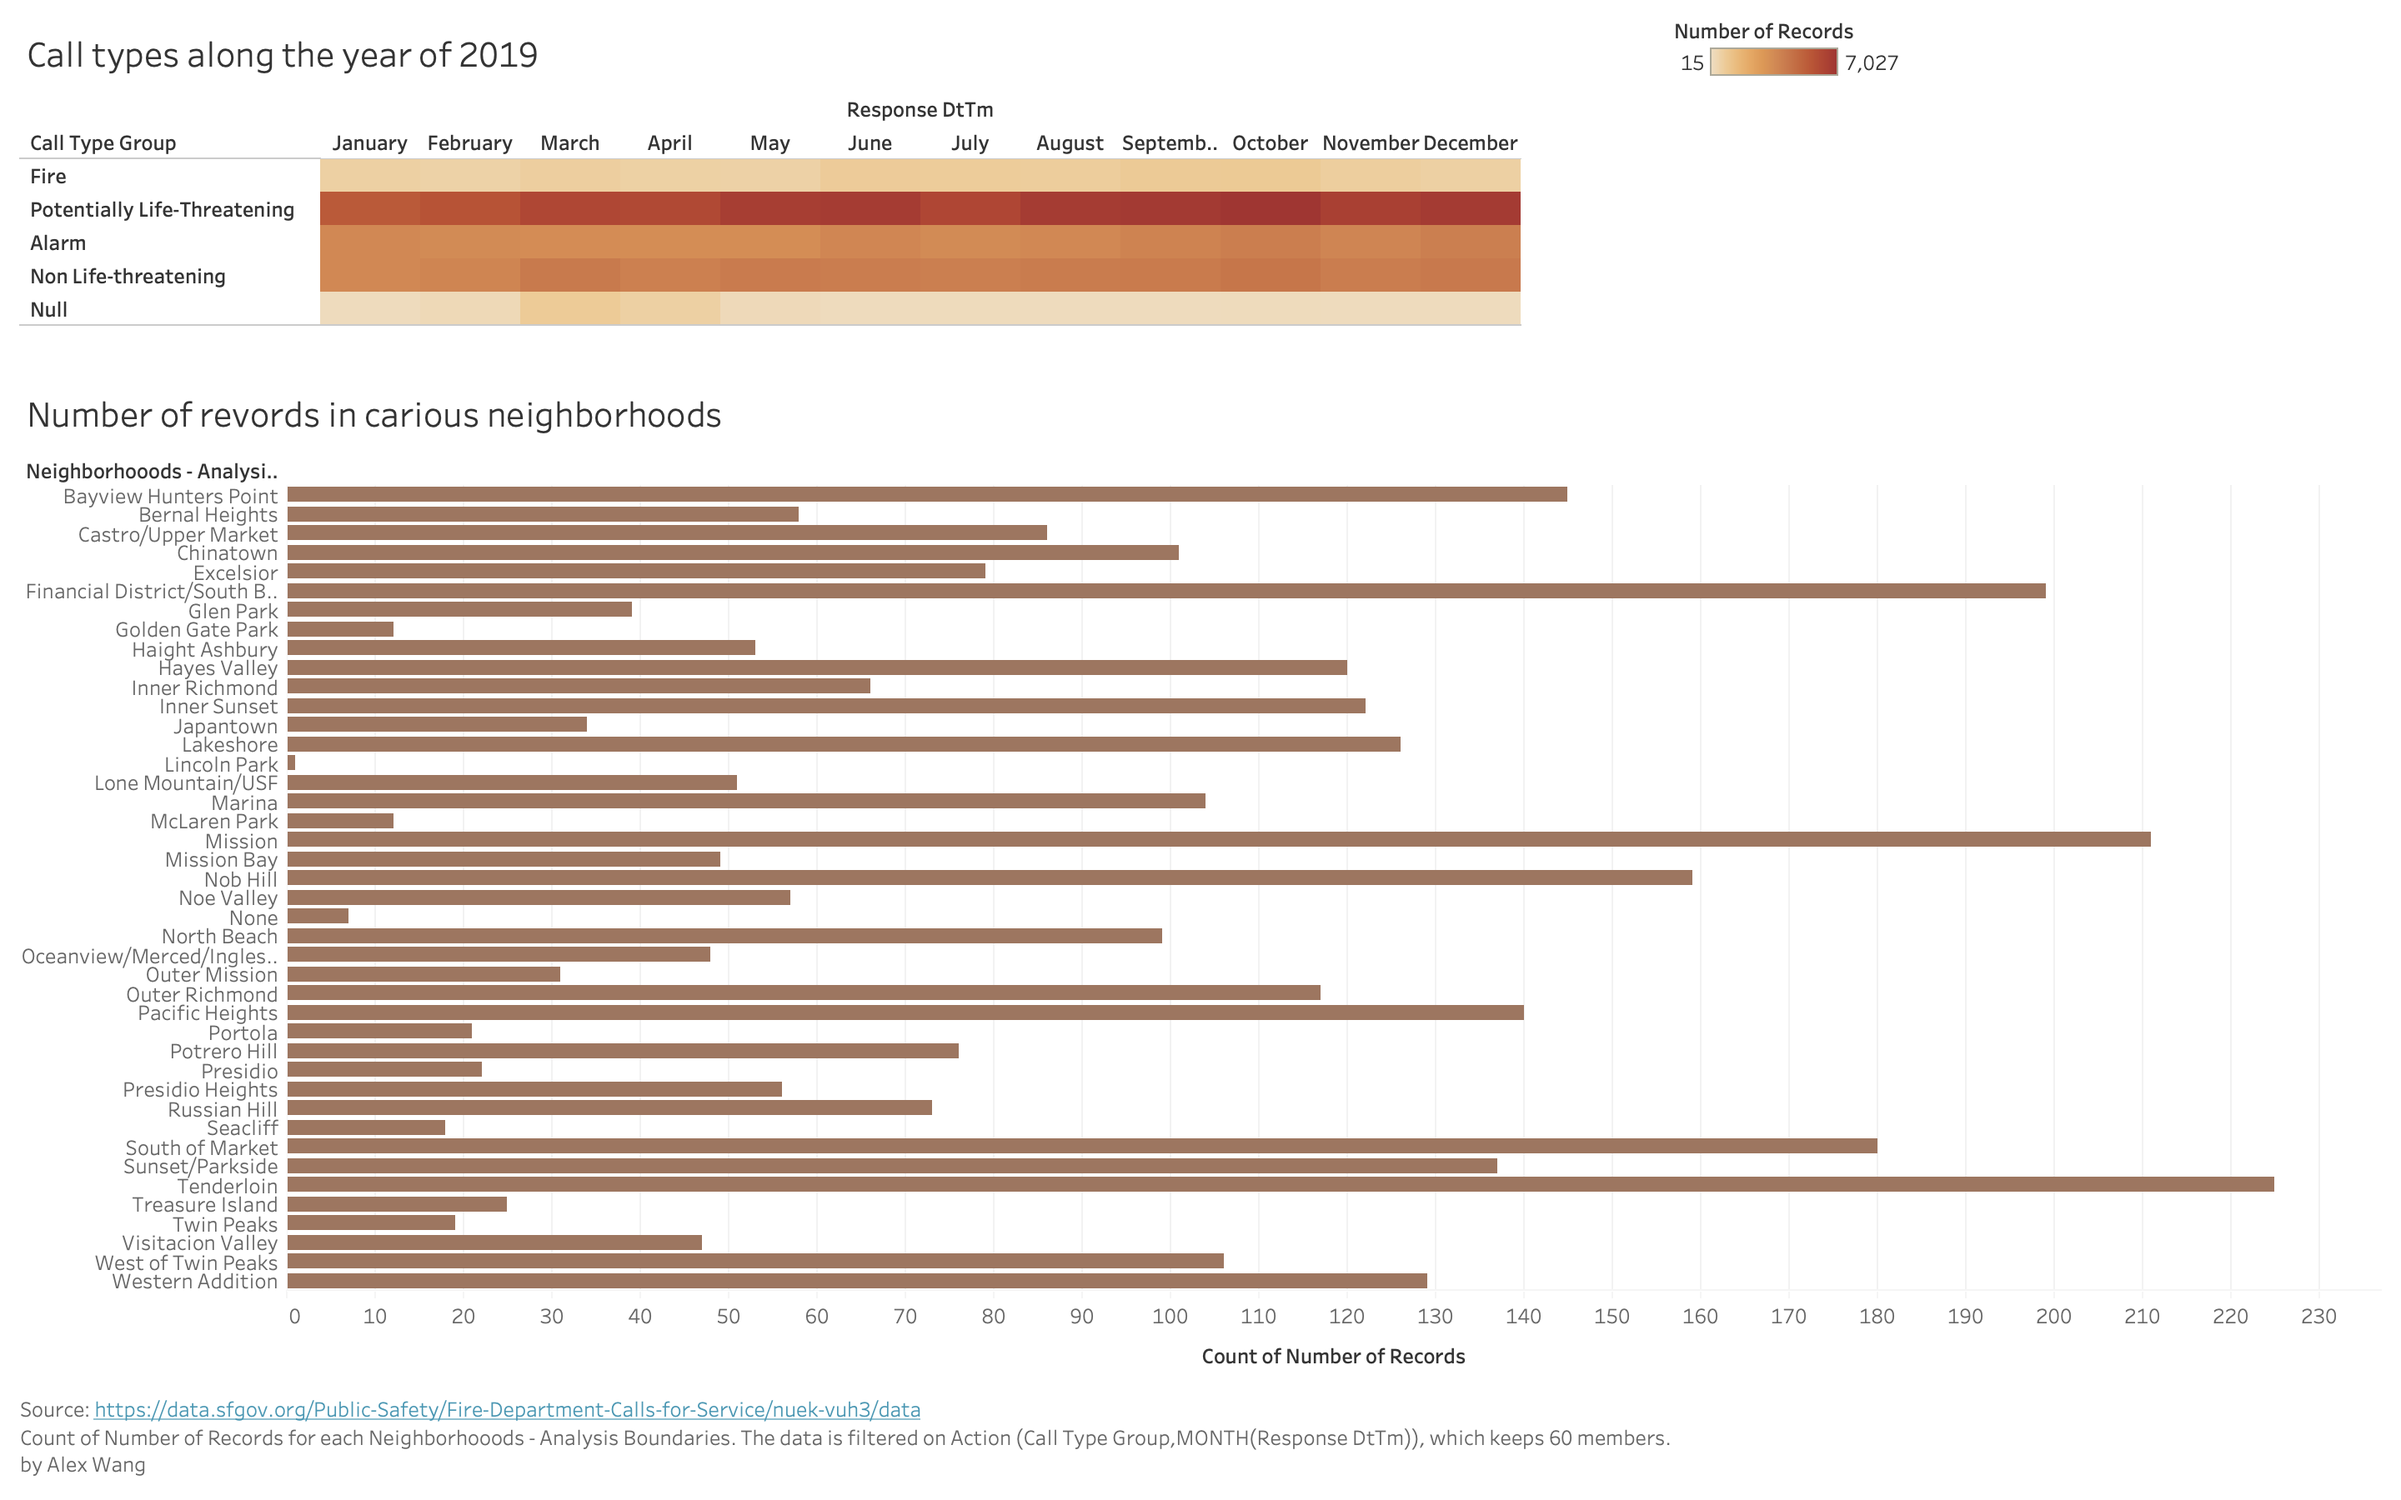
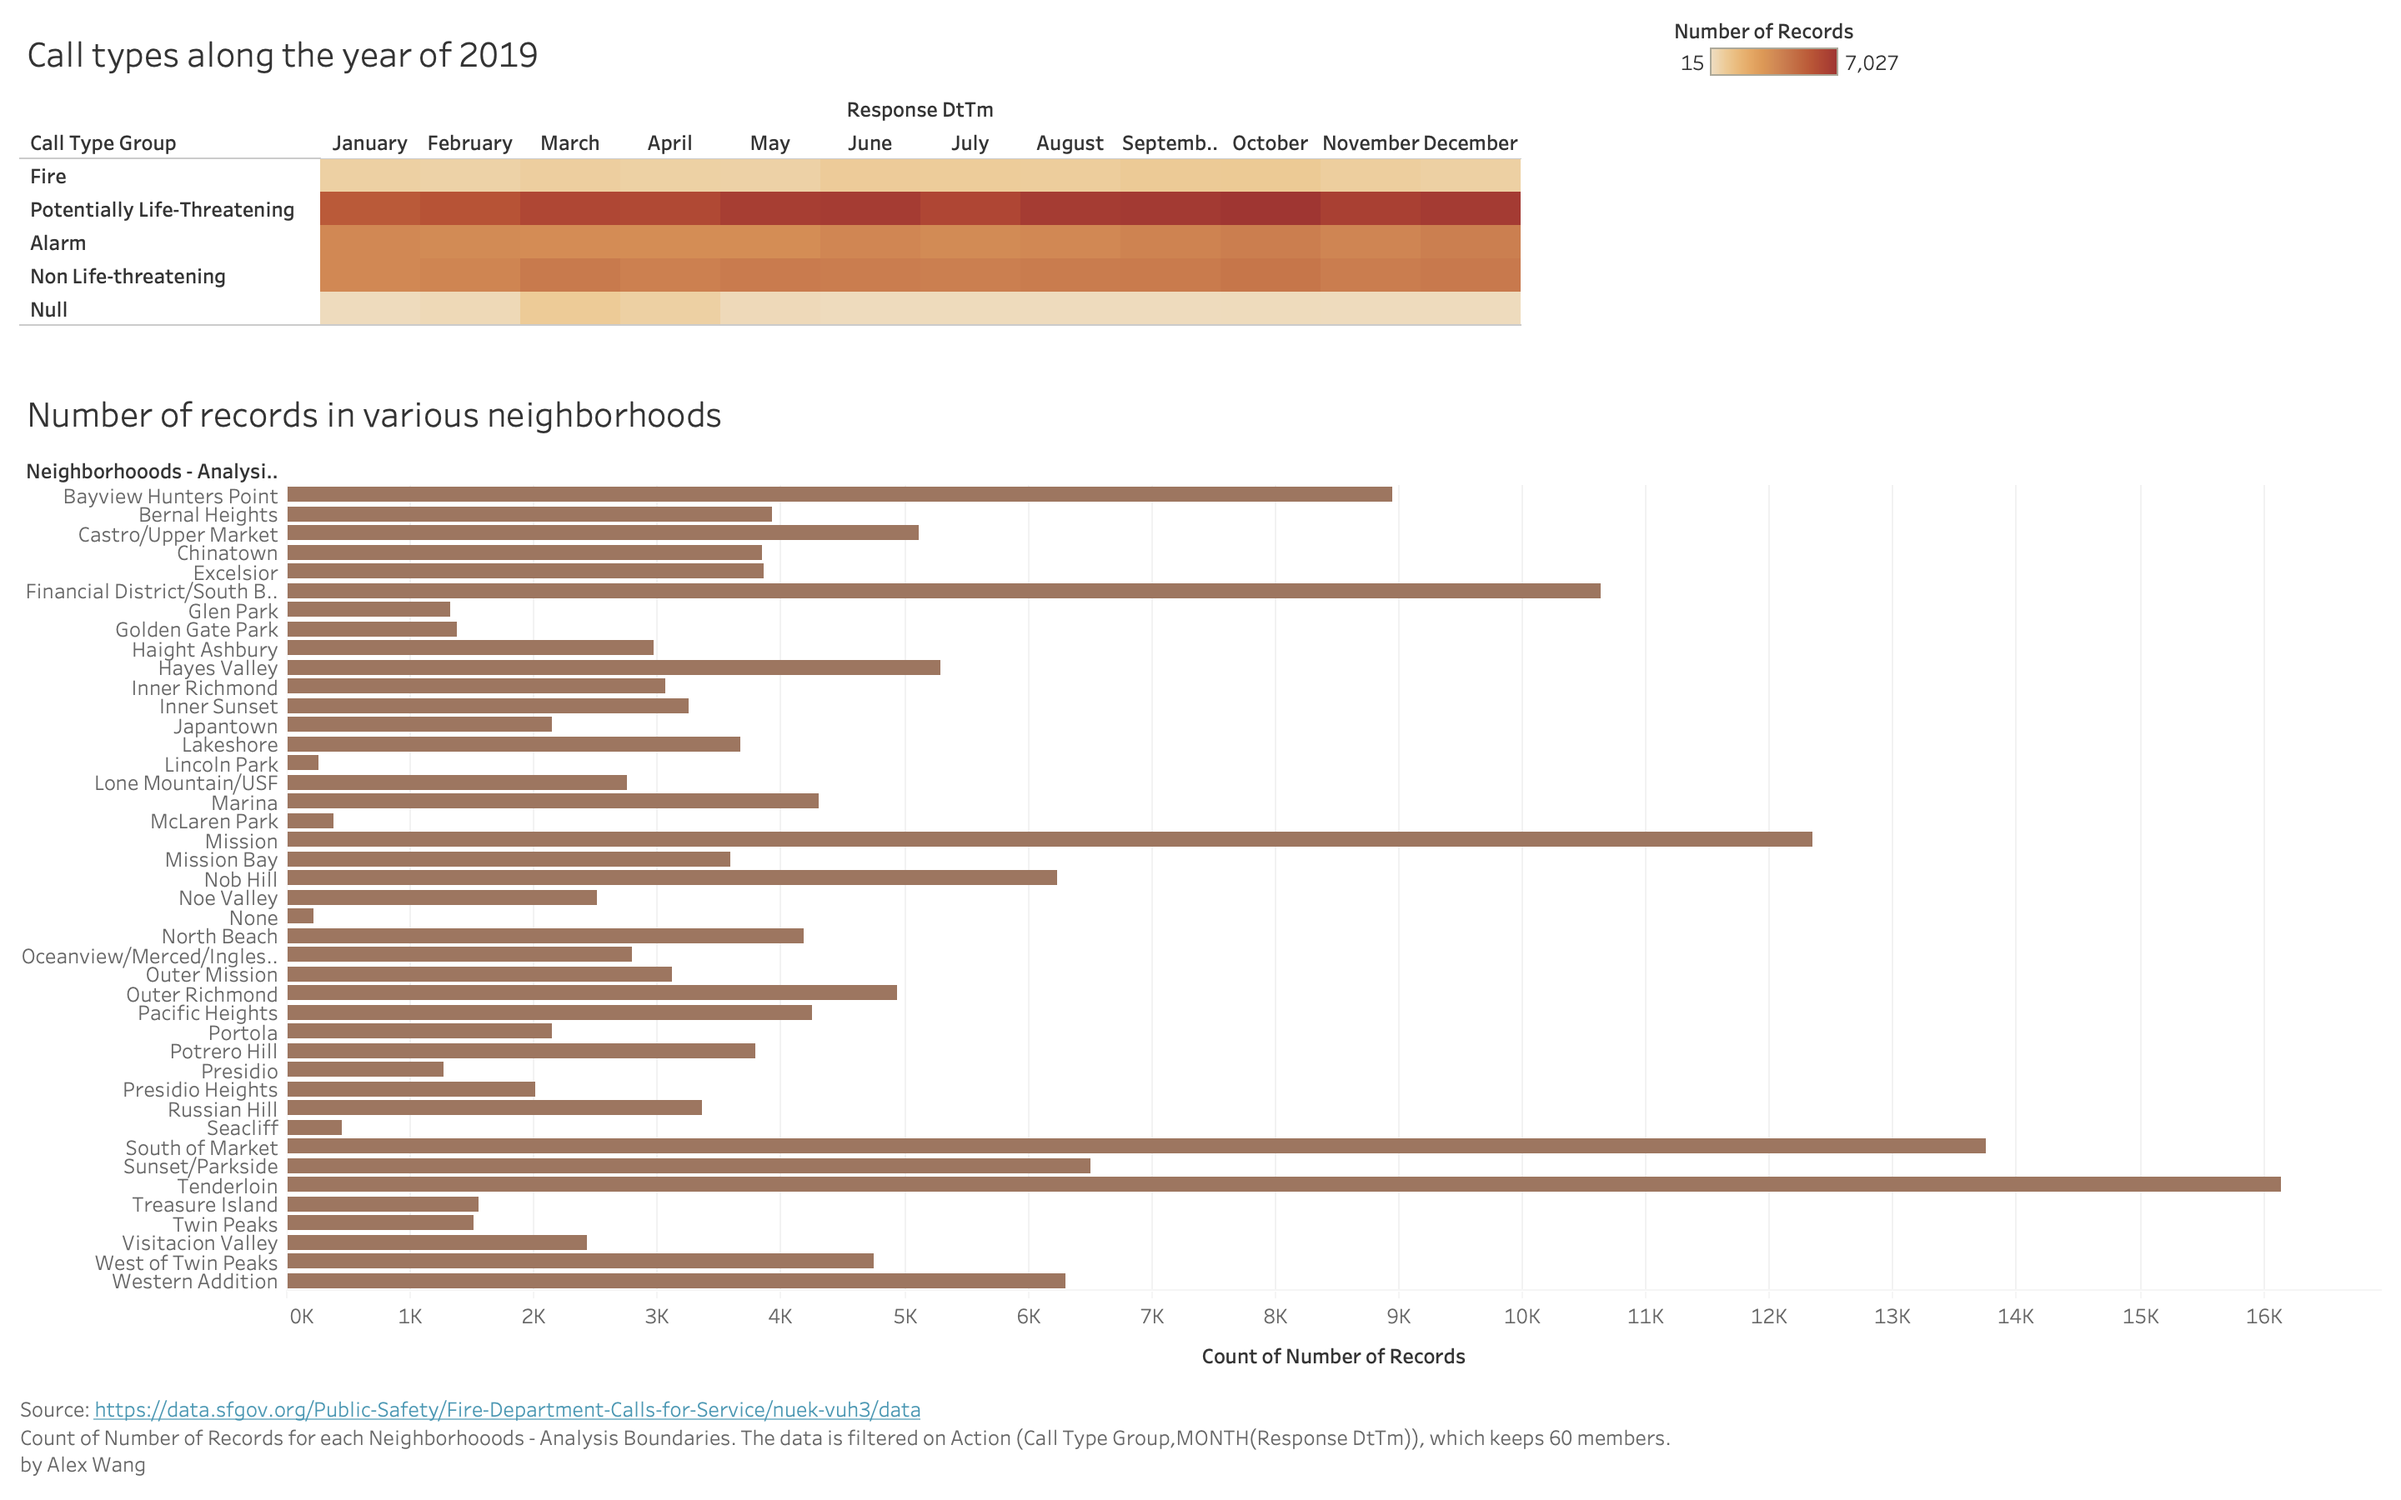
aw3

diff --git a/index.html b/index.html
@@ -163,7 +163,7 @@
 
          <h2 id = "line"> Heatmap + Bar Graph Prototype</h2>
            <h4>Alex Wang</h4>
-          <img  src="hm0.png" />
+          <img  src="Prototype3.png" />
           <a href = "heatmap.html">
             More Information
           </a>

diff --git a/heatmap.html b/heatmap.html
@@ -91,7 +91,7 @@
         <h2 id="visualizations">Visualizations</h2>
 
         <h3> protorype by Tableau </h3>
-        <img src="hm0.png" width="1440" height="900">
+        <img src="Prototype3.png" width="1440" height="900">
 
         <h4>Instructions</h4>
 
